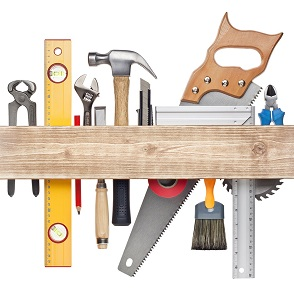
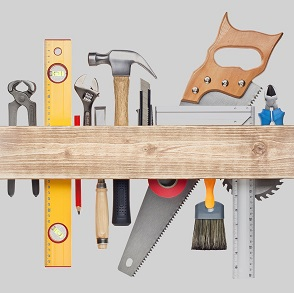
images background changed to gray benefits padding-right in % Grounds_circles width in % = height

diff --git a/style.css b/style.css
@@ -170,9 +170,9 @@ img {
     color: #ffffdd;
 }
 .Benefits_text {
-    padding-left: 150px !important;
-    padding-right: 150px !important;
-    /*text-align: justify;*/
+    /* padding-left: 30px !important; */
+    padding-right: 6% !important;
+    /* text-align: justify; */
     font-size: large;
     font-weight: 500;
     \: 67%;
@@ -232,36 +232,60 @@ img {
     flex-wrap: wrap;
 }
 .Grounds_circles {
-    margin: 0;
-    vertical-align: middle;
+    /*margin: 0;
+    vertical-align: middle;*/ /* 248px circles */
     /* display: table-cell; */
+	position: relative;
+	width: 15%;		/* desired width */
+}
+.Grounds_circles:before{
+	content: "";
+	display: block;
+	padding-top: 100%; 	/* initial ratio of 1:1*/
+}
 }
 .Grounds_circles_box {
-    margin: 10px 20px;
+    /*margin: 10px 20px;
     width: 248px;
-    height: 248px;
+    height: 248px;*/ /* 248px circles */
     /* display: table; */
+	position:  absolute;
+	top: 0;
+	left: 0;
+	bottom: 0;
+	right: 0;
 }
 .Grounds_circles_border {
+    position:  absolute;
+    top: 0;
+    left: 0;
+    bottom: 0;
+    right: 0;
     width: 100%;
-    height: 240px;
+    /*height: 248px;*/ /* 248px circles */
     border: 1px #FFA500;
-    border-radius: 125px;
+    border-radius: 50%;
     background: #FFA500;
     vertical-align: middle;
     text-align: middle;
     opacity: 1;
+    overflow: hidden;
 }
 .Grounds_circles_content {
-    margin: auto 0;
-    padding: 70px 15px 10px;
-    text-align: center;
-    font-family: "Yu Gothic UI Light", "Microsoft YaHei UI Light", "Bookman Old Style";
-    font-size: x-large;
-    font-weight: 600;
-    line-height: 35px;
-    /* display: table-cell; */
-    vertical-align: middle;
+	position: absolute;
+	top: 0;
+	bottom: 0;
+	left: 0;
+	right: 0;
+	margin: auto;
+	padding: 70px 15px 10px;
+	text-align: center;
+	font-family: "Yu Gothic UI Light", "Microsoft YaHei UI Light", "Bookman Old Style";
+	font-size: 26px;
+	font-weight: 600;
+	line-height: 130%;
+	/* display: table-cell; */
+	vertical-align: middle;
 	opacity: 1;
 }
 #Clients {
@@ -470,7 +494,7 @@ textarea {
 #Address {
     margin-left: 0px;
     margin-right: 2%;
-    padding: 23px 10px 5px;
+    padding: 23px 10px 5px 20px;
     width: 13%;
     float: right;
     /*clear: both;*/
@@ -484,6 +508,7 @@ textarea {
 }
 #Footer {
     margin: 0;
+	margin-bottom: 25px;
     width: 100%;
     min-height: 100px;
     display: block;
@@ -497,4 +522,5 @@ textarea {
 .sitelink {
     font-size: medium;
 	color: #666666;
+	text-decoration: none;
 }
